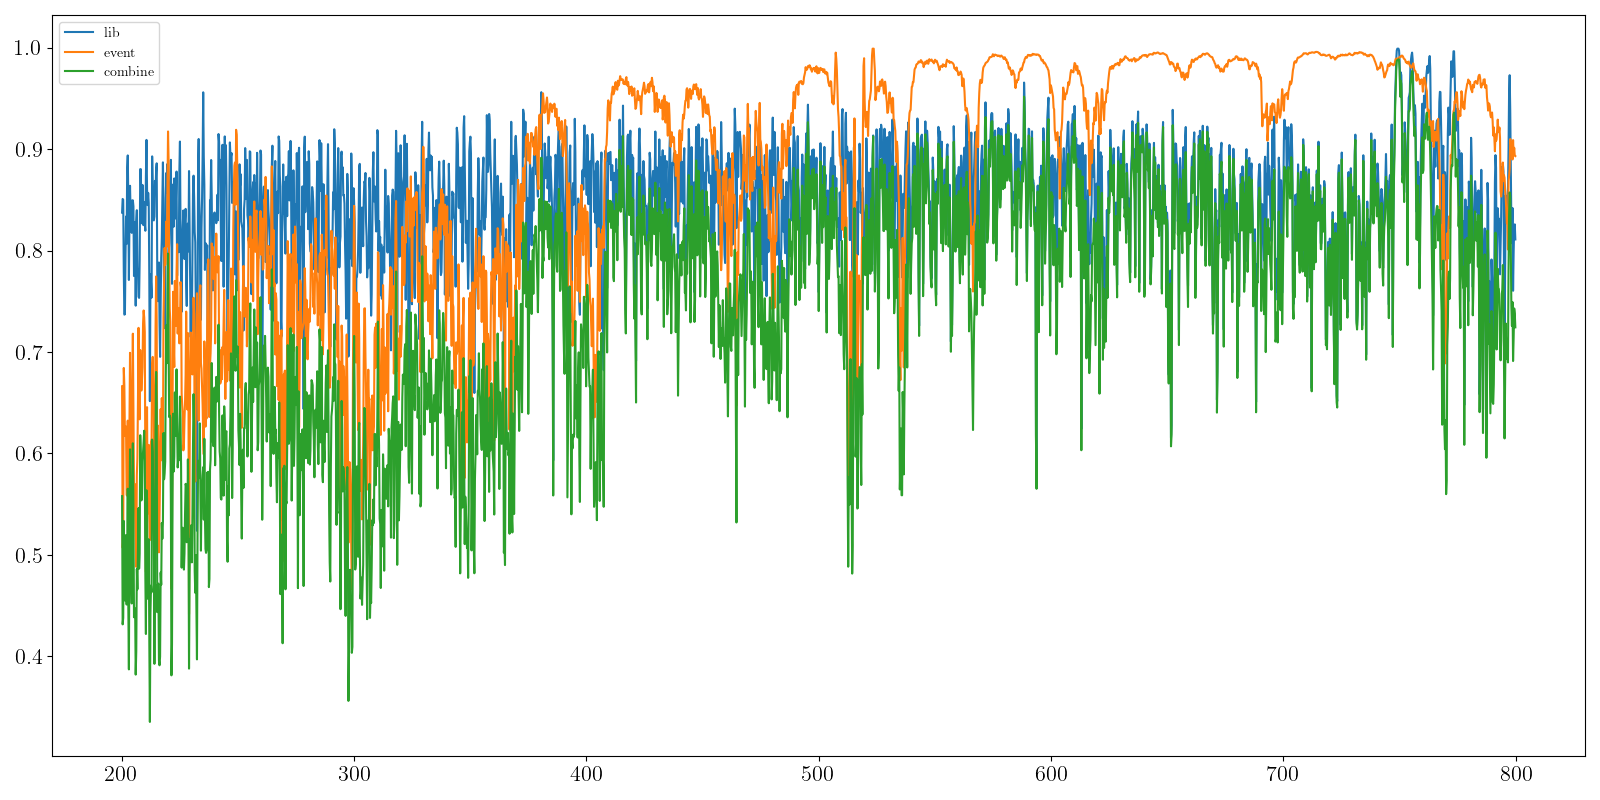
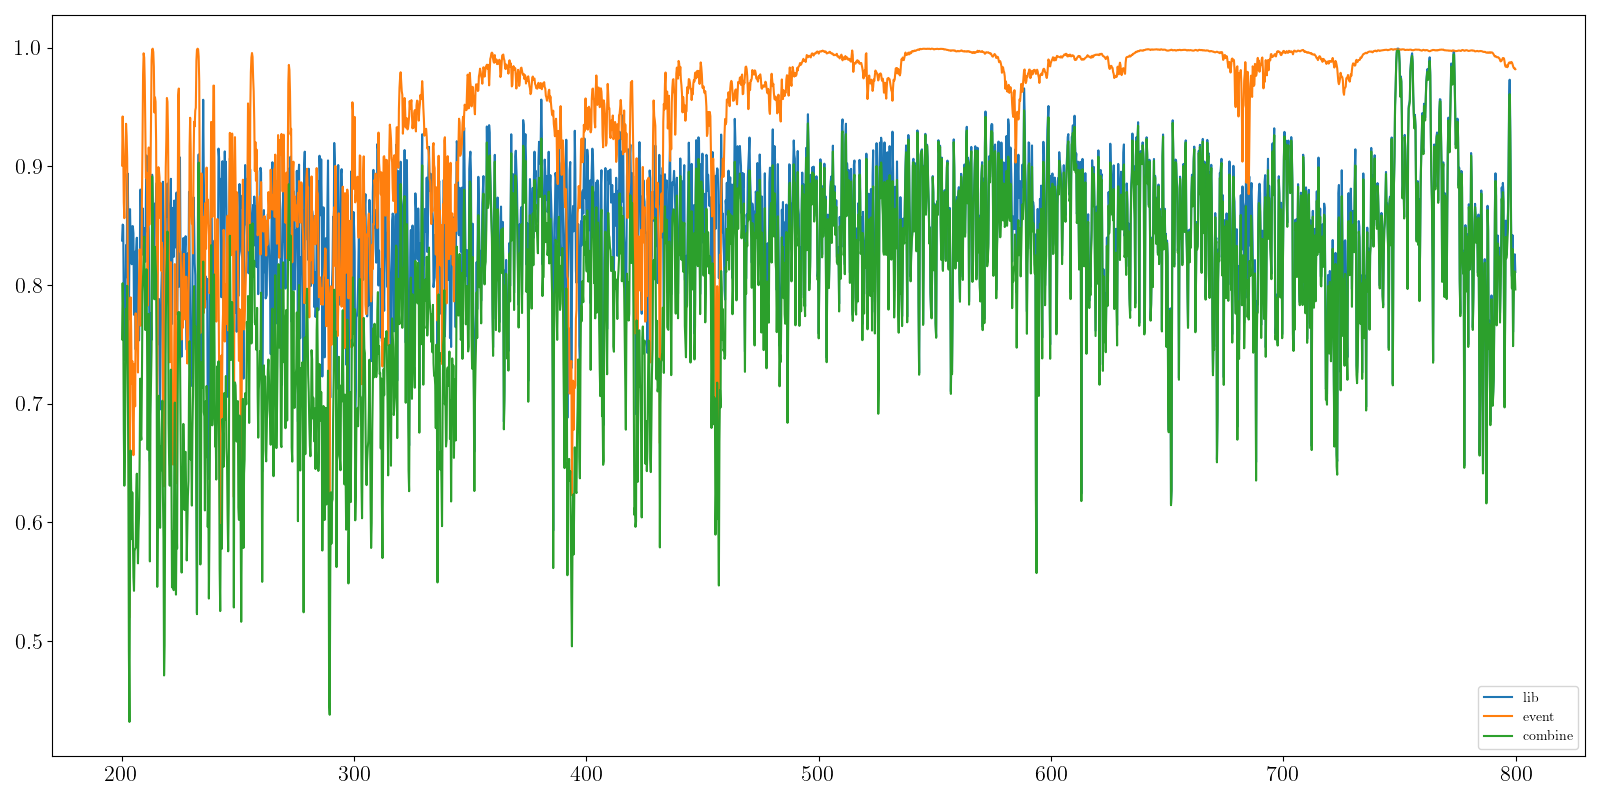
Minor fix to pulse selection

diff --git a/real_data_analysis/fiberscope_groix/src/localisation/rtf/rtf_mfp.py b/real_data_analysis/fiberscope_groix/src/localisation/rtf/rtf_mfp.py
@@ -558,11 +558,15 @@ class RTF_MFP_Processor:
                 # Slice pulse
                 seq_slice = replica_pulse_slice_to_compute[i_seq]
 
-                if seq_slice[0] is not None and seq_slice[1] is not None:
-                    df_arrivals_selected_i = df_arrivals_selected_i.loc[
-                        (df_arrivals_selected_i["pulse_id"] >= seq_slice[0])
-                        & (df_arrivals_selected_i["pulse_id"] <= seq_slice[1])
-                    ]
+                if seq_slice[0] is None:
+                    seq_slice = (0, seq_slice[1])
+                if seq_slice[1] is None:
+                    seq_slice = (seq_slice[0], df_arrivals_selected_i["pulse_id"].max())
+
+                df_arrivals_selected_i = df_arrivals_selected_i.loc[
+                    (df_arrivals_selected_i["pulse_id"] >= seq_slice[0])
+                    & (df_arrivals_selected_i["pulse_id"] <= seq_slice[1])
+                ]
 
                 if i_seq == 0:
                     df_arrivals_selected_sliced = df_arrivals_selected_i
@@ -1843,10 +1847,16 @@ def test():
 
     # Populate library
     active_replicas_args = {
-        "replica_sequence_ids": [144, 146],
-        "replica_pulse_slice": [(0, 300), (None, None)],
-        "load_precomputed_feature": False,
+        "replica_sequence_ids": [144],
+        "replica_pulse_slice": [(0, 200)],
+        "load_precomputed_feature": True,
     }
+    # active_replicas_args = {
+    #     "replica_sequence_ids": [146],
+    #     "replica_pulse_slice": [(300, None)],
+    #     "load_precomputed_feature": False,
+    # }
+
     # passive_replicas_args = {
     #     "start_datetimes": [
     #         datetime(year=2025, month=10, day=14, hour=1, minute=30, second=00),  # OK
@@ -2024,12 +2034,23 @@ def test():
 
     # Passage du Jules au dessus de la fibre
     target_mmsi = 226916000
+    # Séquence entiere
+    # passive_feature_args = {
+    #     "start_datetimes": [
+    #         datetime(year=2025, month=10, day=15, hour=10, minute=10, second=00),  # OK
+    #     ],
+    #     "end_datetimes": [
+    #         datetime(year=2025, month=10, day=15, hour=11, minute=20, second=00),  # OK
+    #     ],
+    #     "load_precomputed_feature": True,
+    # }
+    # Uniquement le passage proche de l'OBS 2 en début de séquence
     passive_feature_args = {
         "start_datetimes": [
             datetime(year=2025, month=10, day=15, hour=10, minute=10, second=00),  # OK
         ],
         "end_datetimes": [
-            datetime(year=2025, month=10, day=15, hour=11, minute=20, second=00),  # OK
+            datetime(year=2025, month=10, day=15, hour=10, minute=20, second=00),  # OK
         ],
         "load_precomputed_feature": True,
     }
